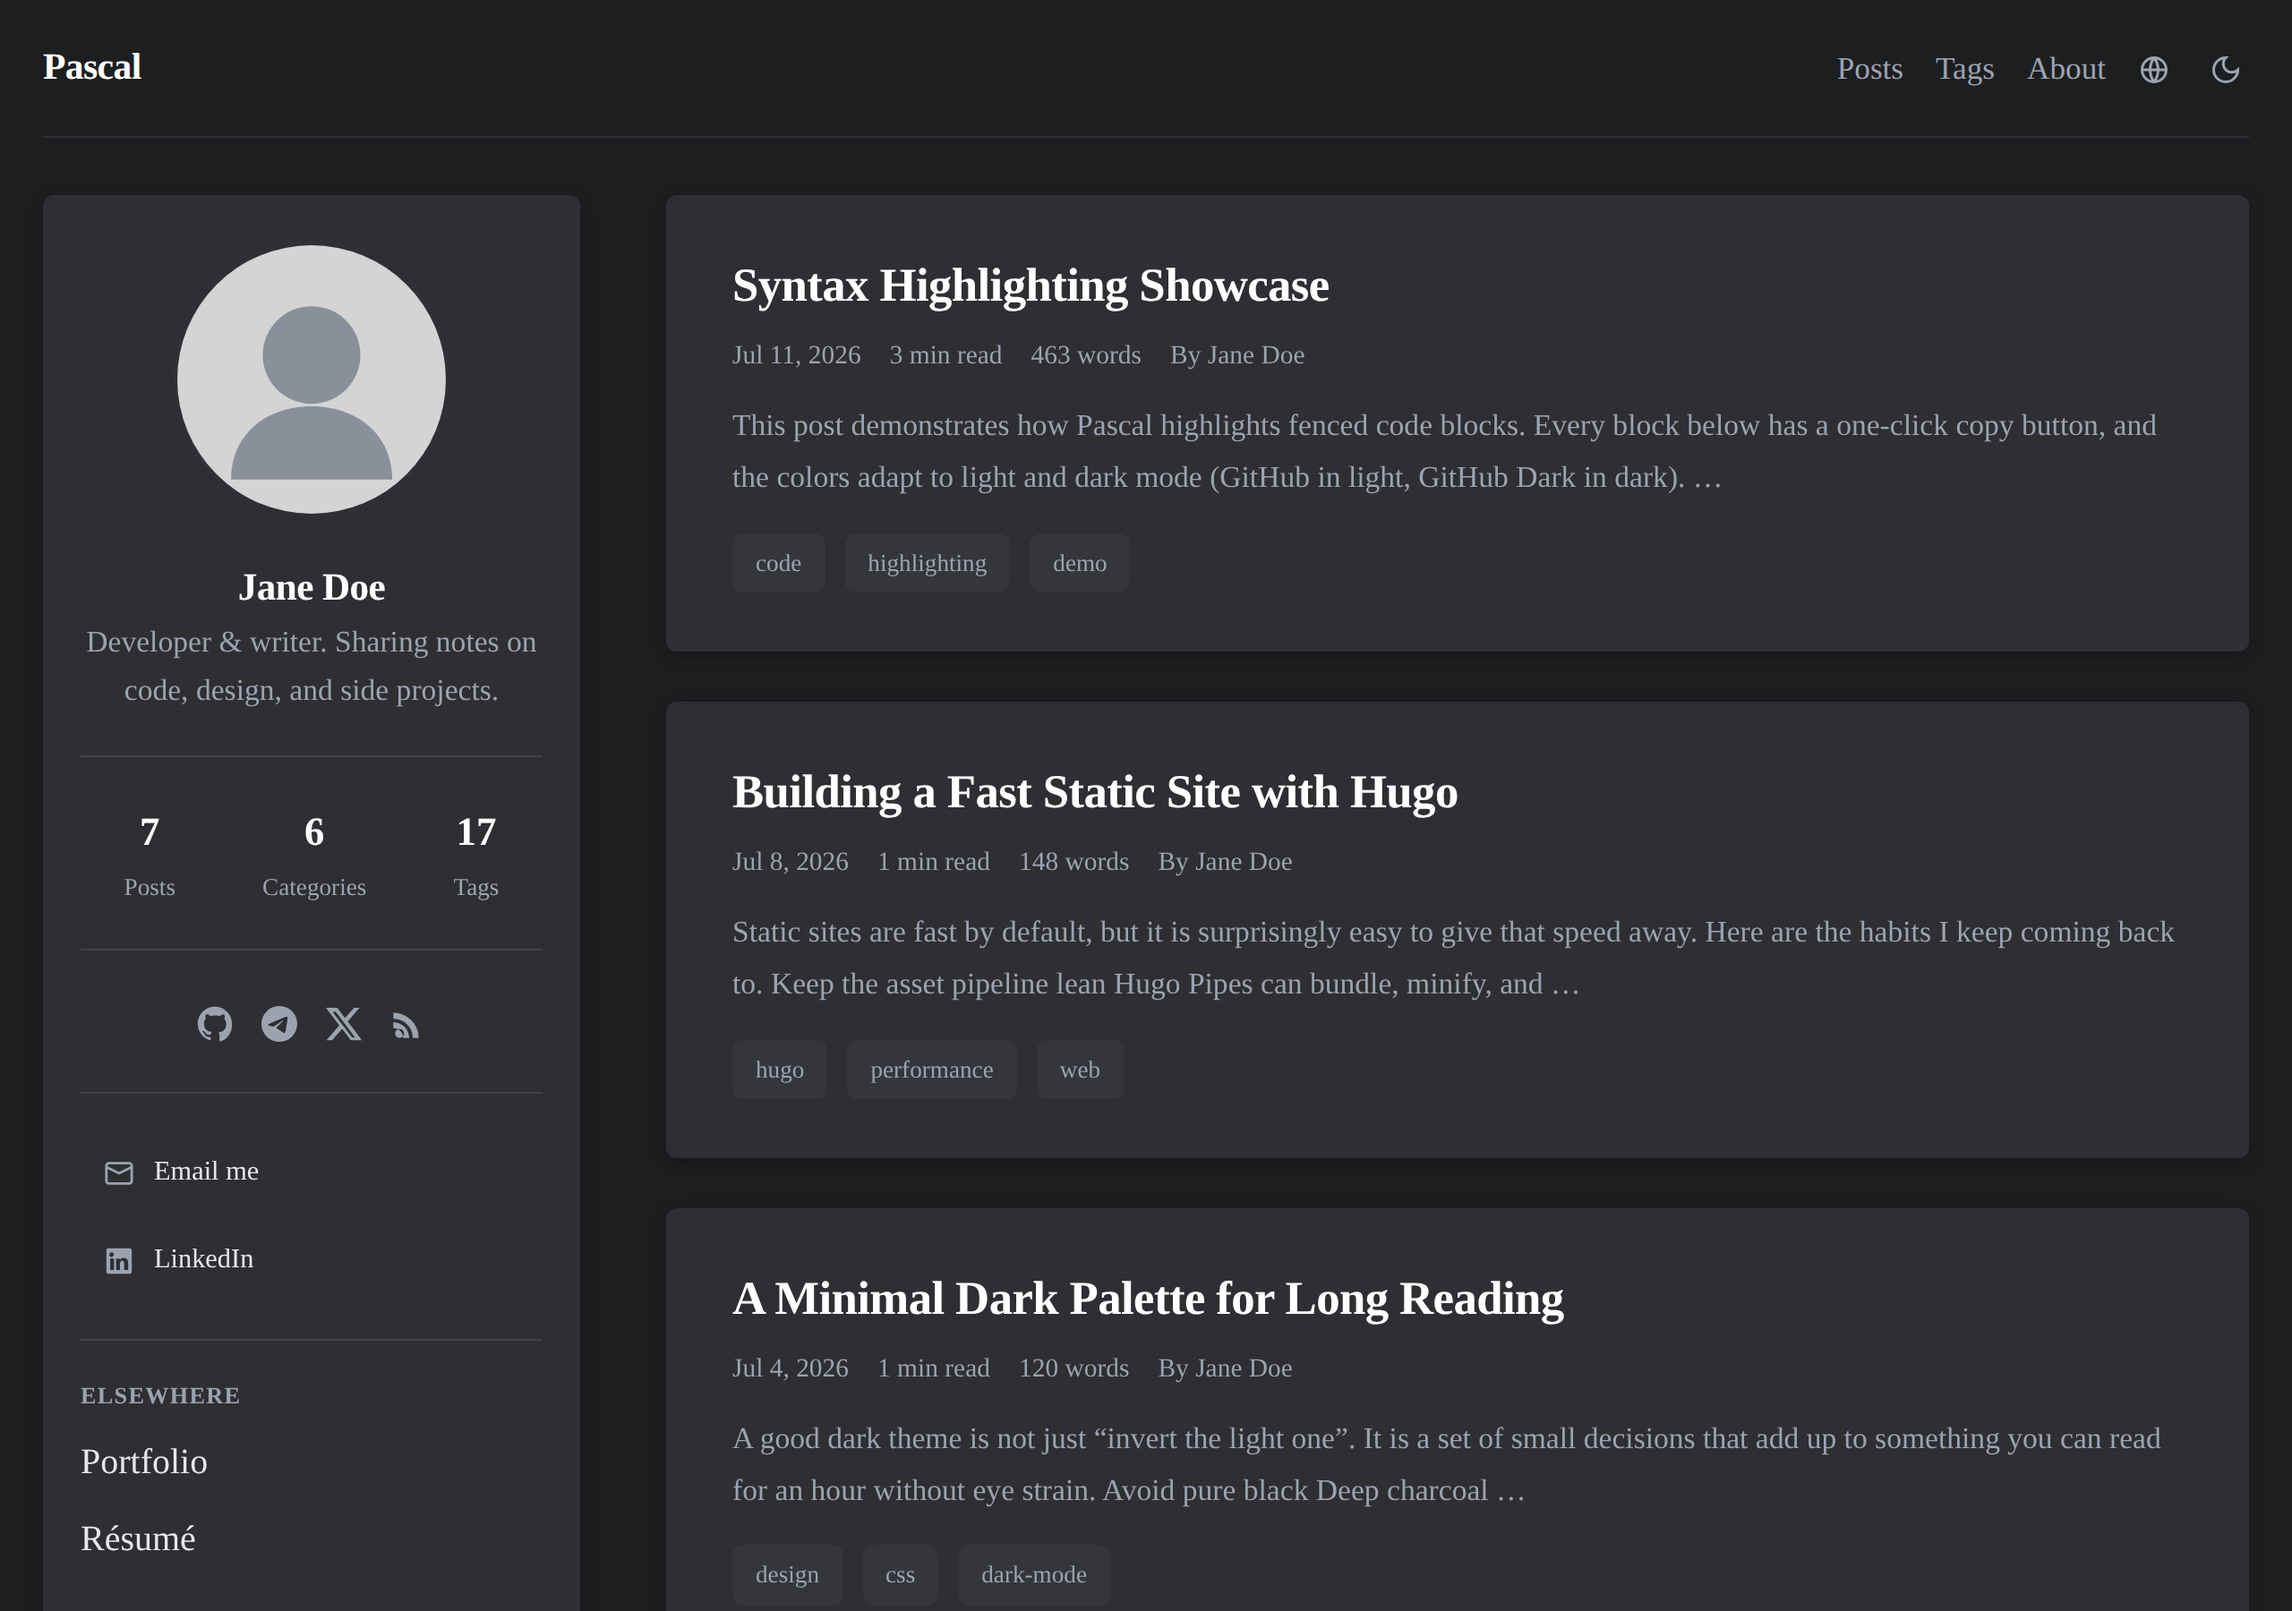
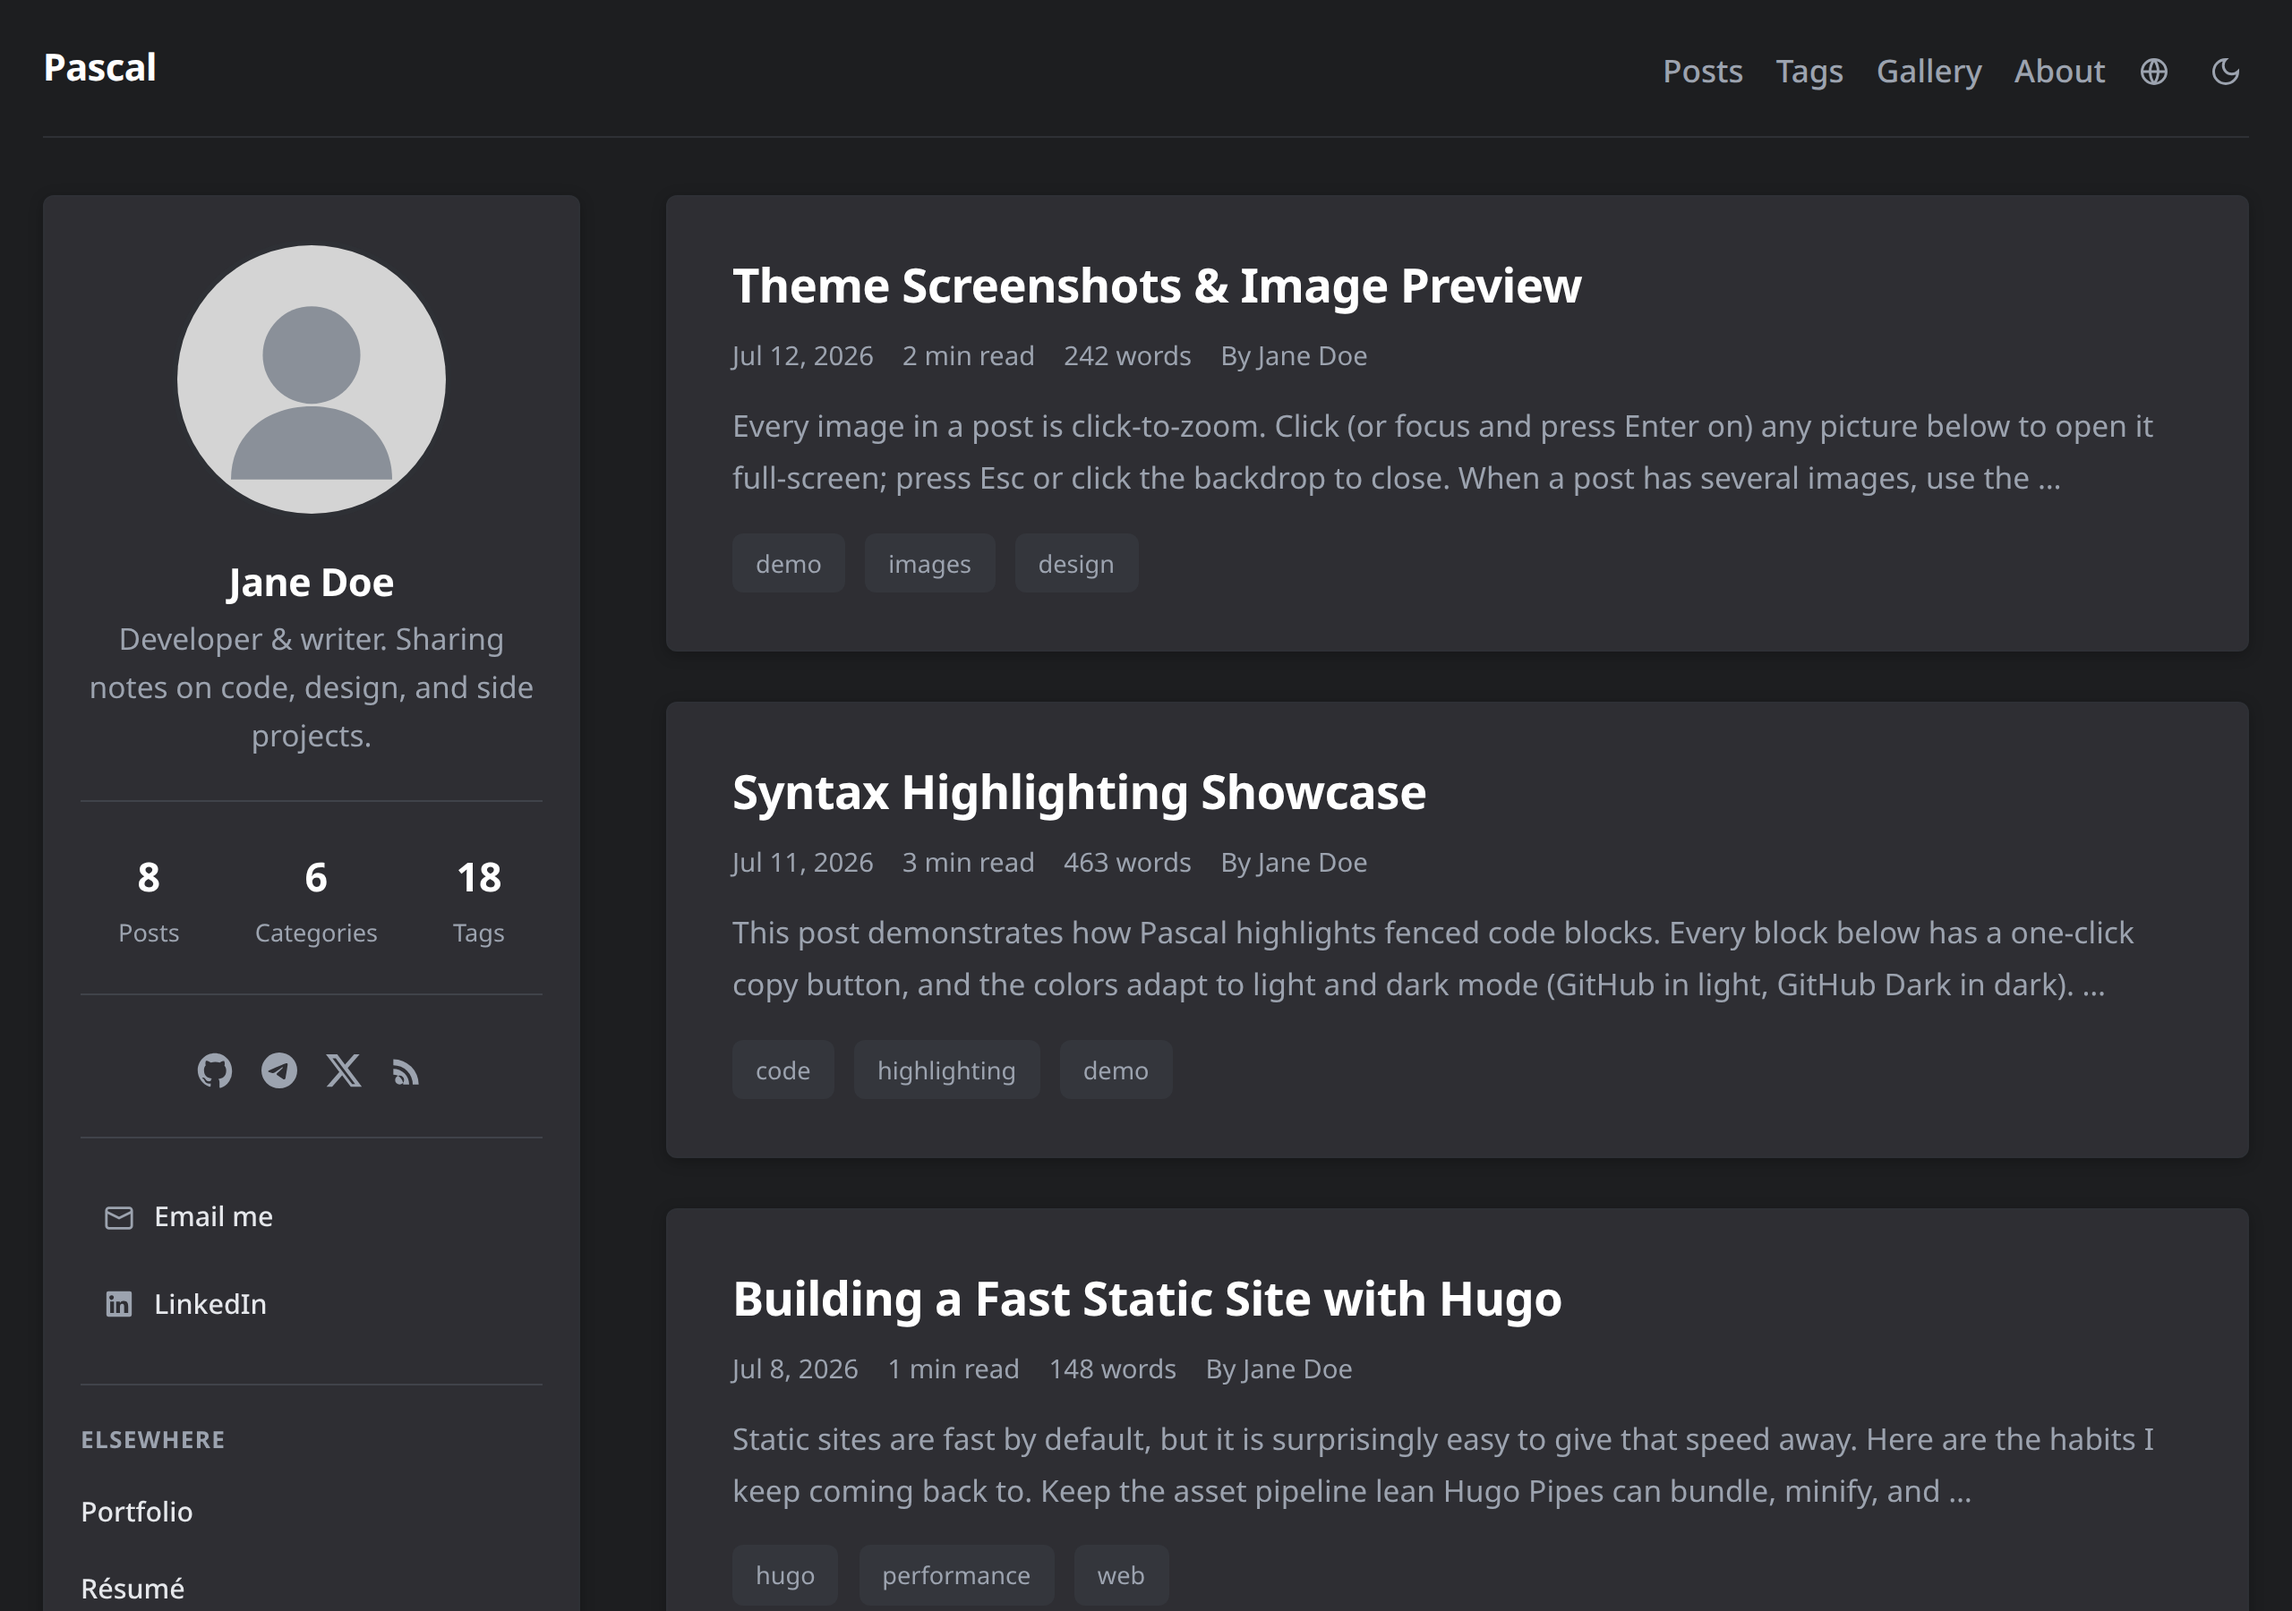
Update demo metadata, font stack, and screenshots
- Trim the sans/mono font stacks (drop Segoe UI/Oxygen/Ubuntu/etc.,
  add DejaVu Sans; Noto Sans moved up as the Linux match)
- Demo site titled "Pascal Demo"; theme.toml points at the live demo
- Refresh theme screenshots

diff --git a/assets/scss/_variables.scss b/assets/scss/_variables.scss
@@ -18,8 +18,8 @@
   // suffixes. There is deliberately no `sans-serif` generic at the end: Chrome on
   // Linux can resolve that generic to a *serif* face, so the stack must end on a
   // real font.
-  --font-sans: -apple-system, BlinkMacSystemFont, "Segoe UI", Roboto, Oxygen, Ubuntu, Cantarell, "Fira Sans", "Droid Sans", "Helvetica Neue", "Noto Sans", "Noto Sans CJK SC", "Noto Sans CJK TC", "Noto Sans CJK JP", "Apple Color Emoji", "Segoe UI Emoji";
-  --font-mono: "SFMono-Regular", Menlo, Monaco, Consolas, "Liberation Mono", "Courier New", monospace;
+  --font-sans: -apple-system, BlinkMacSystemFont, "Noto Sans", Roboto, "DejaVu Sans", "Noto Sans CJK SC", "Noto Sans CJK TC", "Noto Sans CJK JP", "Apple Color Emoji", "Segoe UI Emoji";
+  --font-mono: Menlo, Monaco, Consolas, "Liberation Mono", "Courier New", monospace;
 
   // Light palette — clean, aligned with starry-s.moe
   --color-bg: #f5f5f5;           // body
